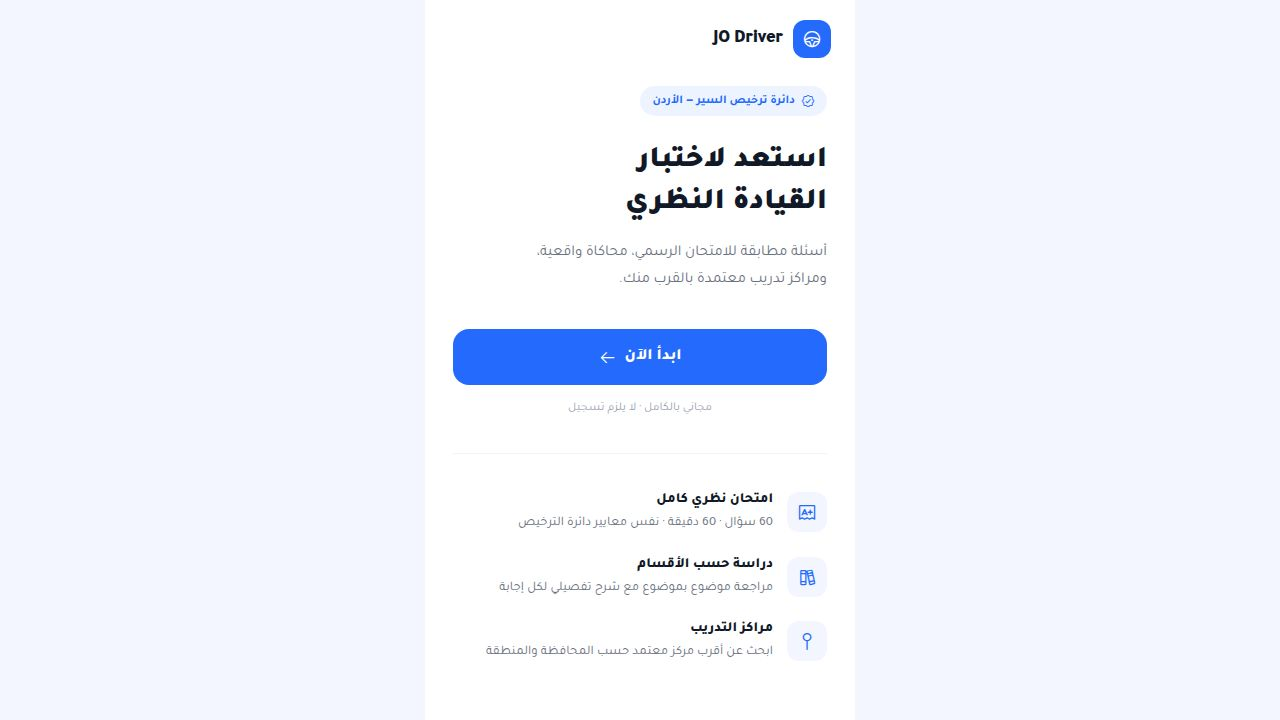
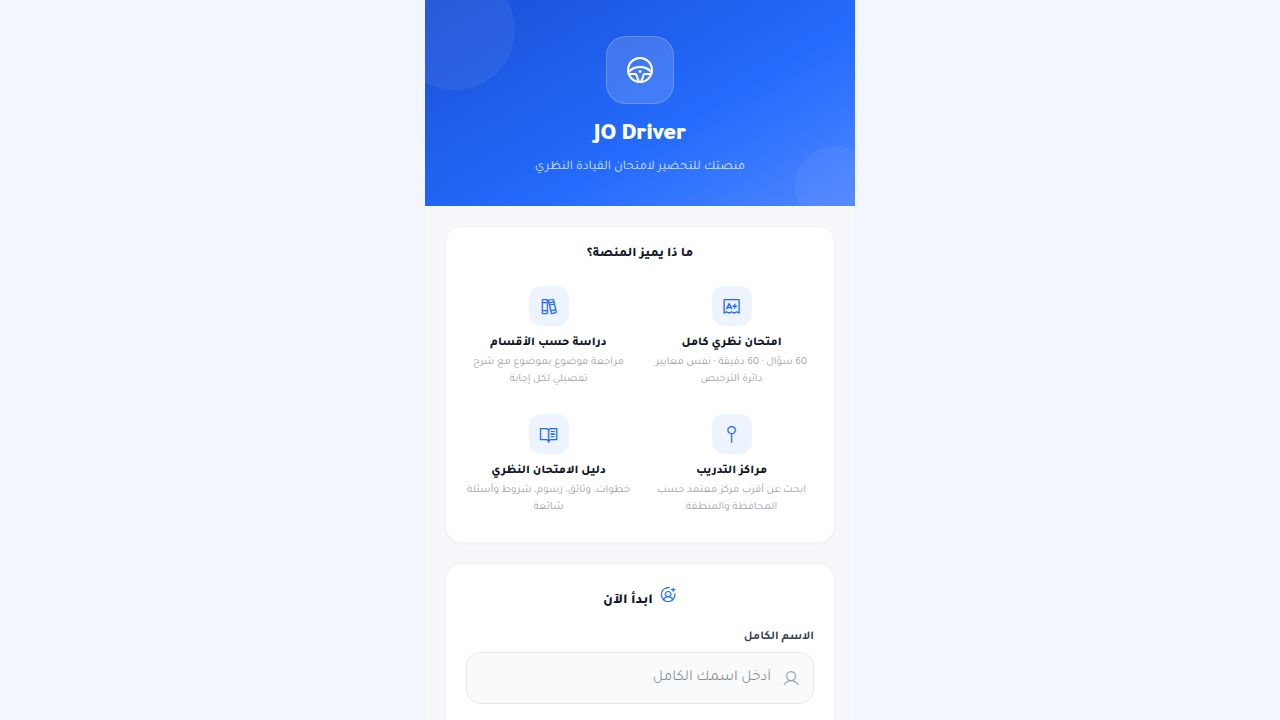
Replace the landing page with an updated registration and onboarding experience
Remove `Landing.tsx` and update `App.tsx` to use `Register.tsx` as the default screen. Modify `types/index.ts` to remove the `landing` screen type.

Replit-Commit-Author: Agent
Replit-Commit-Session-Id: 9a3d25d4-b386-4986-b32c-22bada1d6cd2
Replit-Commit-Checkpoint-Type: full_checkpoint
Replit-Commit-Event-Id: 52494804-10e6-44d3-8c30-d9cb15ddaa68
Replit-Commit-Screenshot-Url: https://storage.googleapis.com/screenshot-production-us-central1/66532e2b-4df6-4fe5-a9f5-3d6cc128ad5b/9a3d25d4-b386-4986-b32c-22bada1d6cd2/p6RcOj8
Replit-Helium-Checkpoint-Created: true

diff --git a/artifacts/driving-exam/src/screens/Register.tsx b/artifacts/driving-exam/src/screens/Register.tsx
@@ -8,6 +8,13 @@ interface Props {
   onUnload: () => void;
 }
 
+const FEATURES = [
+  { icon: "exam",           title: "امتحان نظري كامل",      desc: "60 سؤال · 60 دقيقة · نفس معايير دائرة الترخيص" },
+  { icon: "books",          title: "دراسة حسب الأقسام",     desc: "مراجعة موضوع بموضوع مع شرح تفصيلي لكل إجابة"   },
+  { icon: "map-pin-simple", title: "مراكز التدريب",         desc: "ابحث عن أقرب مركز معتمد حسب المحافظة والمنطقة"  },
+  { icon: "book-open-text",  title: "دليل الامتحان النظري",   desc: "خطوات، وثائق، رسوم، شروط وأسئلة شائعة"         },
+];
+
 export default function Register({ onSuccess, onLoad, onUnload }: Props) {
   const tgUser = getTelegramUser();
   const [name, setName] = useState(tgUser?.first_name || "");
@@ -21,7 +28,7 @@ export default function Register({ onSuccess, onLoad, onUnload }: Props) {
     if (!n) { setErr("الرجاء إدخال الاسم الكامل"); return; }
     if (p.length < 10) { setErr("الرجاء إدخال رقم هاتف صحيح (10 أرقام)"); return; }
 
-    onLoad("جارٍ التسجيل...");
+    onLoad("جارً التسجيل...");
     try {
       const key = tgUser?.id
         ? String(tgUser.id)
@@ -43,85 +50,137 @@ export default function Register({ onSuccess, onLoad, onUnload }: Props) {
   }
 
   return (
-    <div style={{ display: "flex", flexDirection: "column", minHeight: "100dvh" }}>
-      {/* Header */}
+    <div style={{ display: "flex", flexDirection: "column", minHeight: "100dvh", background: "#F6F8FB", direction: "rtl" }}>
+
+      {/* ── Hero Header ── */}
       <div style={{
-        background: "linear-gradient(150deg, #1a57d4 0%, #246BFD 100%)",
-        padding: "40px 24px 32px", textAlign: "center", color: "#fff",
+        background: "linear-gradient(150deg, #1a4fd4 0%, #246BFD 60%, #4f86ff 100%)",
+        padding: "36px 24px 28px", textAlign: "center", color: "#fff",
+        position: "relative", overflow: "hidden",
       }}>
-        <div style={{
-          width: 72, height: 72, background: "rgba(255,255,255,0.18)",
-          borderRadius: 22, margin: "0 auto 16px",
-          display: "flex", alignItems: "center", justifyContent: "center", fontSize: 36,
-        }}>
-          <i className="ph ph-user-circle" />
+        {/* Decorative circles */}
+        <div style={{ position: "absolute", top: -30, left: -30, width: 120, height: 120, borderRadius: "50%", background: "rgba(255,255,255,0.06)" }} />
+        <div style={{ position: "absolute", bottom: -20, right: -20, width: 80, height: 80, borderRadius: "50%", background: "rgba(255,255,255,0.05)" }} />
+
+        <div style={{ position: "relative", zIndex: 1 }}>
+          <div style={{
+            width: 68, height: 68, background: "rgba(255,255,255,0.15)",
+            borderRadius: 20, margin: "0 auto 14px",
+            display: "flex", alignItems: "center", justifyContent: "center", fontSize: 32,
+            backdropFilter: "blur(4px)", border: "1px solid rgba(255,255,255,0.2)",
+          }}>
+            <i className="ph ph-steering-wheel" />
+          </div>
+          <h1 style={{ fontSize: 24, fontWeight: 900, marginBottom: 4, letterSpacing: "-0.5px" }}>JO Driver</h1>
+          <p style={{ fontSize: 13, opacity: 0.8 }}>منصتك للتحضير لامتحان القيادة النظري</p>
         </div>
-        <h1 style={{ fontSize: 22, fontWeight: 900, marginBottom: 6 }}>أهلاً بك!</h1>
-        <p style={{ fontSize: 14, opacity: 0.85 }}>أدخل بياناتك للمتابعة</p>
       </div>
 
-      {/* Form */}
-      <div style={{ padding: "28px 20px", flex: 1, background: "#fff" }}>
-        <form onSubmit={submit} style={{ display: "flex", flexDirection: "column", gap: 16 }}>
-          {/* Name */}
-          <div>
-            <label style={{ display: "block", fontWeight: 700, fontSize: 14, marginBottom: 8, color: "#374151" }}>
-              الاسم الكامل
-            </label>
-            <div style={{ position: "relative" }}>
-              <i className="ph ph-user" style={{
-                position: "absolute", right: 14, top: "50%",
-                transform: "translateY(-50%)", fontSize: 20, color: "#9CA3AF",
-              }} />
-              <input
-                className="inp"
-                type="text"
-                placeholder="أدخل اسمك الكامل"
-                value={name}
-                onChange={e => setName(e.target.value)}
-              />
-            </div>
+      {/* ── Features ── */}
+      <div style={{ padding: "20px 20px 8px" }}>
+        <div style={{
+          background: "#fff", borderRadius: 16, padding: "18px 16px",
+          border: "1.5px solid #F0F1F3", boxShadow: "0 1px 3px rgba(0,0,0,0.03)",
+        }}>
+          <div style={{ fontSize: 13, fontWeight: 800, color: "#111827", marginBottom: 14, textAlign: "center" }}>
+            ما ذا يميز المنصة؟
+          </div>
+          <div style={{ display: "grid", gridTemplateColumns: "1fr 1fr", gap: 10 }}>
+            {FEATURES.map(f => (
+              <div key={f.title} style={{ textAlign: "center", padding: "8px 4px" }}>
+                <div style={{
+                  width: 40, height: 40, borderRadius: 12,
+                  background: "#EEF4FF", color: "#246BFD",
+                  display: "flex", alignItems: "center", justifyContent: "center",
+                  fontSize: 20, margin: "0 auto 8px",
+                }}>
+                  <i className={`ph ph-${f.icon}`} />
+                </div>
+                <div style={{ fontSize: 12, fontWeight: 800, color: "#111827", marginBottom: 3 }}>{f.title}</div>
+                <div style={{ fontSize: 11, color: "#9CA3AF", lineHeight: 1.5 }}>{f.desc}</div>
+              </div>
+            ))}
+          </div>
+        </div>
+      </div>
+
+      {/* ── Registration Form ── */}
+      <div style={{ padding: "12px 20px 24px", flex: 1 }}>
+        <div style={{
+          background: "#fff", borderRadius: 16, padding: "22px 20px",
+          border: "1.5px solid #F0F1F3", boxShadow: "0 1px 3px rgba(0,0,0,0.03)",
+        }}>
+          <div style={{ fontSize: 14, fontWeight: 800, color: "#111827", marginBottom: 16, textAlign: "center" }}>
+            <i className="ph ph-user-circle-plus" style={{ color: "#246BFD", marginLeft: 6, fontSize: 18 }} />
+            ابدأ الآن
           </div>
 
-          {/* Phone */}
-          <div>
-            <label style={{ display: "block", fontWeight: 700, fontSize: 14, marginBottom: 8, color: "#374151" }}>
-              رقم الهاتف
-            </label>
-            <div style={{ position: "relative" }}>
-              <i className="ph ph-phone" style={{
-                position: "absolute", right: 14, top: "50%",
-                transform: "translateY(-50%)", fontSize: 20, color: "#9CA3AF",
-              }} />
-              <input
-                className="inp"
-                type="tel"
-                placeholder="07xxxxxxxx"
-                value={phone}
-                onChange={e => setPhone(e.target.value)}
-                style={{ direction: "ltr", textAlign: "right" }}
-              />
+          <form onSubmit={submit} style={{ display: "flex", flexDirection: "column", gap: 14 }}>
+            {/* Name */}
+            <div>
+              <label style={{ display: "block", fontWeight: 700, fontSize: 12, marginBottom: 6, color: "#374151" }}>
+                الاسم الكامل
+              </label>
+              <div style={{ position: "relative" }}>
+                <i className="ph ph-user" style={{
+                  position: "absolute", right: 14, top: "50%",
+                  transform: "translateY(-50%)", fontSize: 18, color: "#9CA3AF",
+                }} />
+                <input
+                  className="inp"
+                  type="text"
+                  placeholder="أدخل اسمك الكامل"
+                  value={name}
+                  onChange={e => setName(e.target.value)}
+                  style={{ paddingRight: 42 }}
+                />
+              </div>
             </div>
-          </div>
 
-          {/* Error */}
-          {err && (
-            <div style={{
-              background: "#FEF2F2", border: "1px solid #FECACA",
-              borderRadius: 10, padding: "10px 14px",
-              color: "#DC2626", fontSize: 13, fontWeight: 600,
-              display: "flex", alignItems: "center", gap: 8,
-            }}>
-              <i className="ph ph-warning-circle" style={{ fontSize: 18, flexShrink: 0 }} />
-              {err}
+            {/* Phone */}
+            <div>
+              <label style={{ display: "block", fontWeight: 700, fontSize: 12, marginBottom: 6, color: "#374151" }}>
+                رقم الهاتف
+              </label>
+              <div style={{ position: "relative" }}>
+                <i className="ph ph-phone" style={{
+                  position: "absolute", right: 14, top: "50%",
+                  transform: "translateY(-50%)", fontSize: 18, color: "#9CA3AF",
+                }} />
+                <input
+                  className="inp"
+                  type="tel"
+                  placeholder="07xxxxxxxx"
+                  value={phone}
+                  onChange={e => setPhone(e.target.value)}
+                  style={{ direction: "ltr", textAlign: "right", paddingRight: 42 }}
+                />
+              </div>
             </div>
-          )}
 
-          <button type="submit" className="btn-primary" style={{ marginTop: 4 }}>
-            <i className="ph ph-check" style={{ fontSize: 20 }} />
-            تسجيل ومتابعة
-          </button>
-        </form>
+            {/* Error */}
+            {err && (
+              <div style={{
+                background: "#FEF2F2", border: "1px solid #FECACA",
+                borderRadius: 10, padding: "10px 14px",
+                color: "#DC2626", fontSize: 12, fontWeight: 700,
+                display: "flex", alignItems: "center", gap: 8,
+              }}>
+                <i className="ph ph-warning-circle" style={{ fontSize: 16, flexShrink: 0 }} />
+                {err}
+              </div>
+            )}
+
+            <button type="submit" className="btn-primary" style={{ marginTop: 2 }}>
+              <i className="ph ph-check" style={{ fontSize: 18 }} />
+              تسجيل والدخول
+            </button>
+          </form>
+
+          <p style={{ textAlign: "center", fontSize: 11, color: "#9CA3AF", marginTop: 14 }}>
+            مجاني بالكامل · لا يلزم التسجيل
+          </p>
+        </div>
       </div>
     </div>
   );

diff --git a/artifacts/driving-exam/src/App.tsx b/artifacts/driving-exam/src/App.tsx
@@ -3,7 +3,6 @@ import { db, auth } from "./lib/firebase";
 import { initTelegram, getTelegramUser } from "./lib/telegram";
 import type { Screen, Question, Governorate, Area, Center } from "./types";
 
-import LandingScreen from "./screens/Landing";
 import RegisterScreen from "./screens/Register";
 import HomeScreen from "./screens/Home";
 import CentersScreen from "./screens/Centers";
@@ -59,7 +58,7 @@ function loadSession(): string | null {
 }
 
 export default function App() {
-  const [screen, setScreen] = useState<Screen>("landing");
+  const [screen, setScreen] = useState<Screen>("register");
   const [loading, setLoading] = useState(true);
   const [loadMsg, setLoadMsg] = useState("جارٍ التحميل...");
 
@@ -124,13 +123,13 @@ export default function App() {
             saveSession(name);
             setScreen("home");
           } else {
-            setScreen("landing");
+            setScreen("register");
           }
         })
-        .catch(() => setScreen("landing"))
+        .catch(() => setScreen("register"))
         .finally(() => setLoading(false));
     } else {
-      setScreen("landing");
+      setScreen("register");
       setLoading(false);
     }
     return;
@@ -139,8 +138,6 @@ export default function App() {
   function load(msg: string) { setLoadMsg(msg); setLoading(true); }
   function unload() { setLoading(false); }
   function go(s: Screen) { setScreen(s); }
-
-  function handleStart() { go("register"); }
 
   function handleRegistered(name: string) {
     setUserName(name);
@@ -238,7 +235,6 @@ export default function App() {
 
   return (
     <div className="shell">
-      {screen === "landing"    && <LandingScreen onStart={handleStart} />}
       {screen === "register"   && (
         <RegisterScreen onSuccess={handleRegistered} onLoad={load} onUnload={unload} />
       )}

diff --git a/artifacts/driving-exam/src/types/index.ts b/artifacts/driving-exam/src/types/index.ts
@@ -1,5 +1,5 @@
 export type Screen =
-  | "landing" | "register" | "home"
+  | "register" | "home"
   | "centers" | "categories"
   | "study" | "test" | "result"
   | "exam-rules" | "exam" | "exam-result"